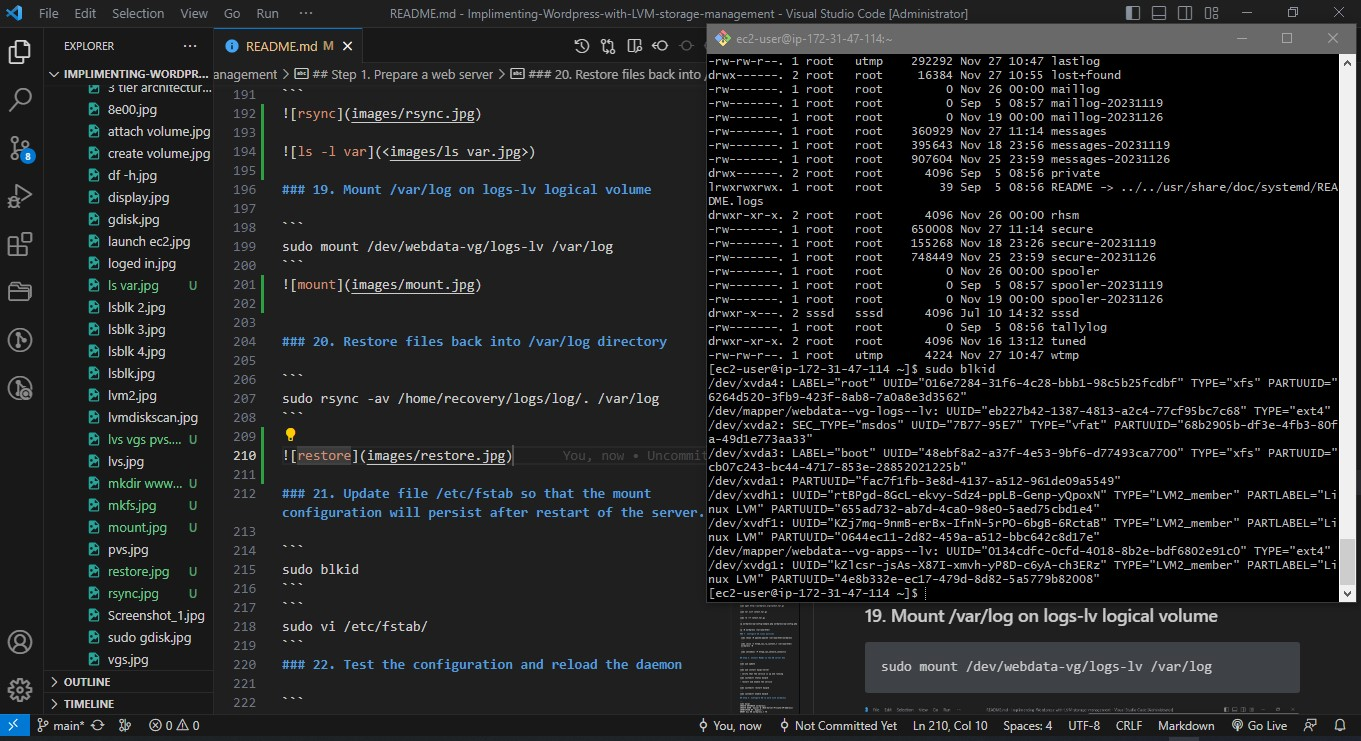
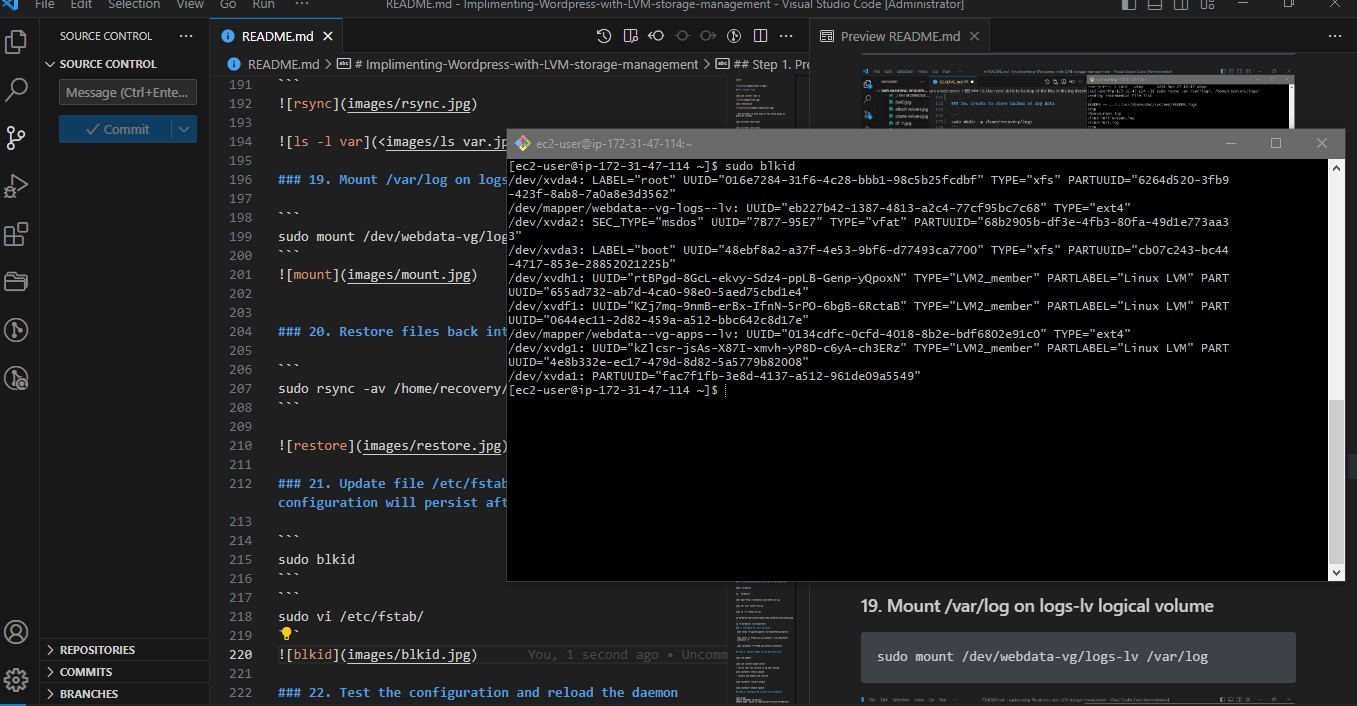
done

diff --git a/README.md b/README.md
@@ -215,9 +215,11 @@ sudo rsync -av /home/recovery/logs/log/. /var/log
 sudo blkid
 ```
 ```
-sudo vi /etc/fstab/
+sudo vi /etc/fstab
 ```
 ![blkid](images/blkid.jpg)
+
+![fstab](images/fstab.jpg)
 
 ### 22. Test the configuration and reload the daemon
 
@@ -227,6 +229,7 @@ sudo mount -a
 ```
 sudo systemctl daemon-reload
 ```
+![reload](images/reload.jpg)
 
 ### 23. Verify the setup by running df -h
 
@@ -234,7 +237,7 @@ sudo systemctl daemon-reload
 df -h
 ```
 
-
+![df -h check](<images/df -h check.jpg>)
 
 
 
